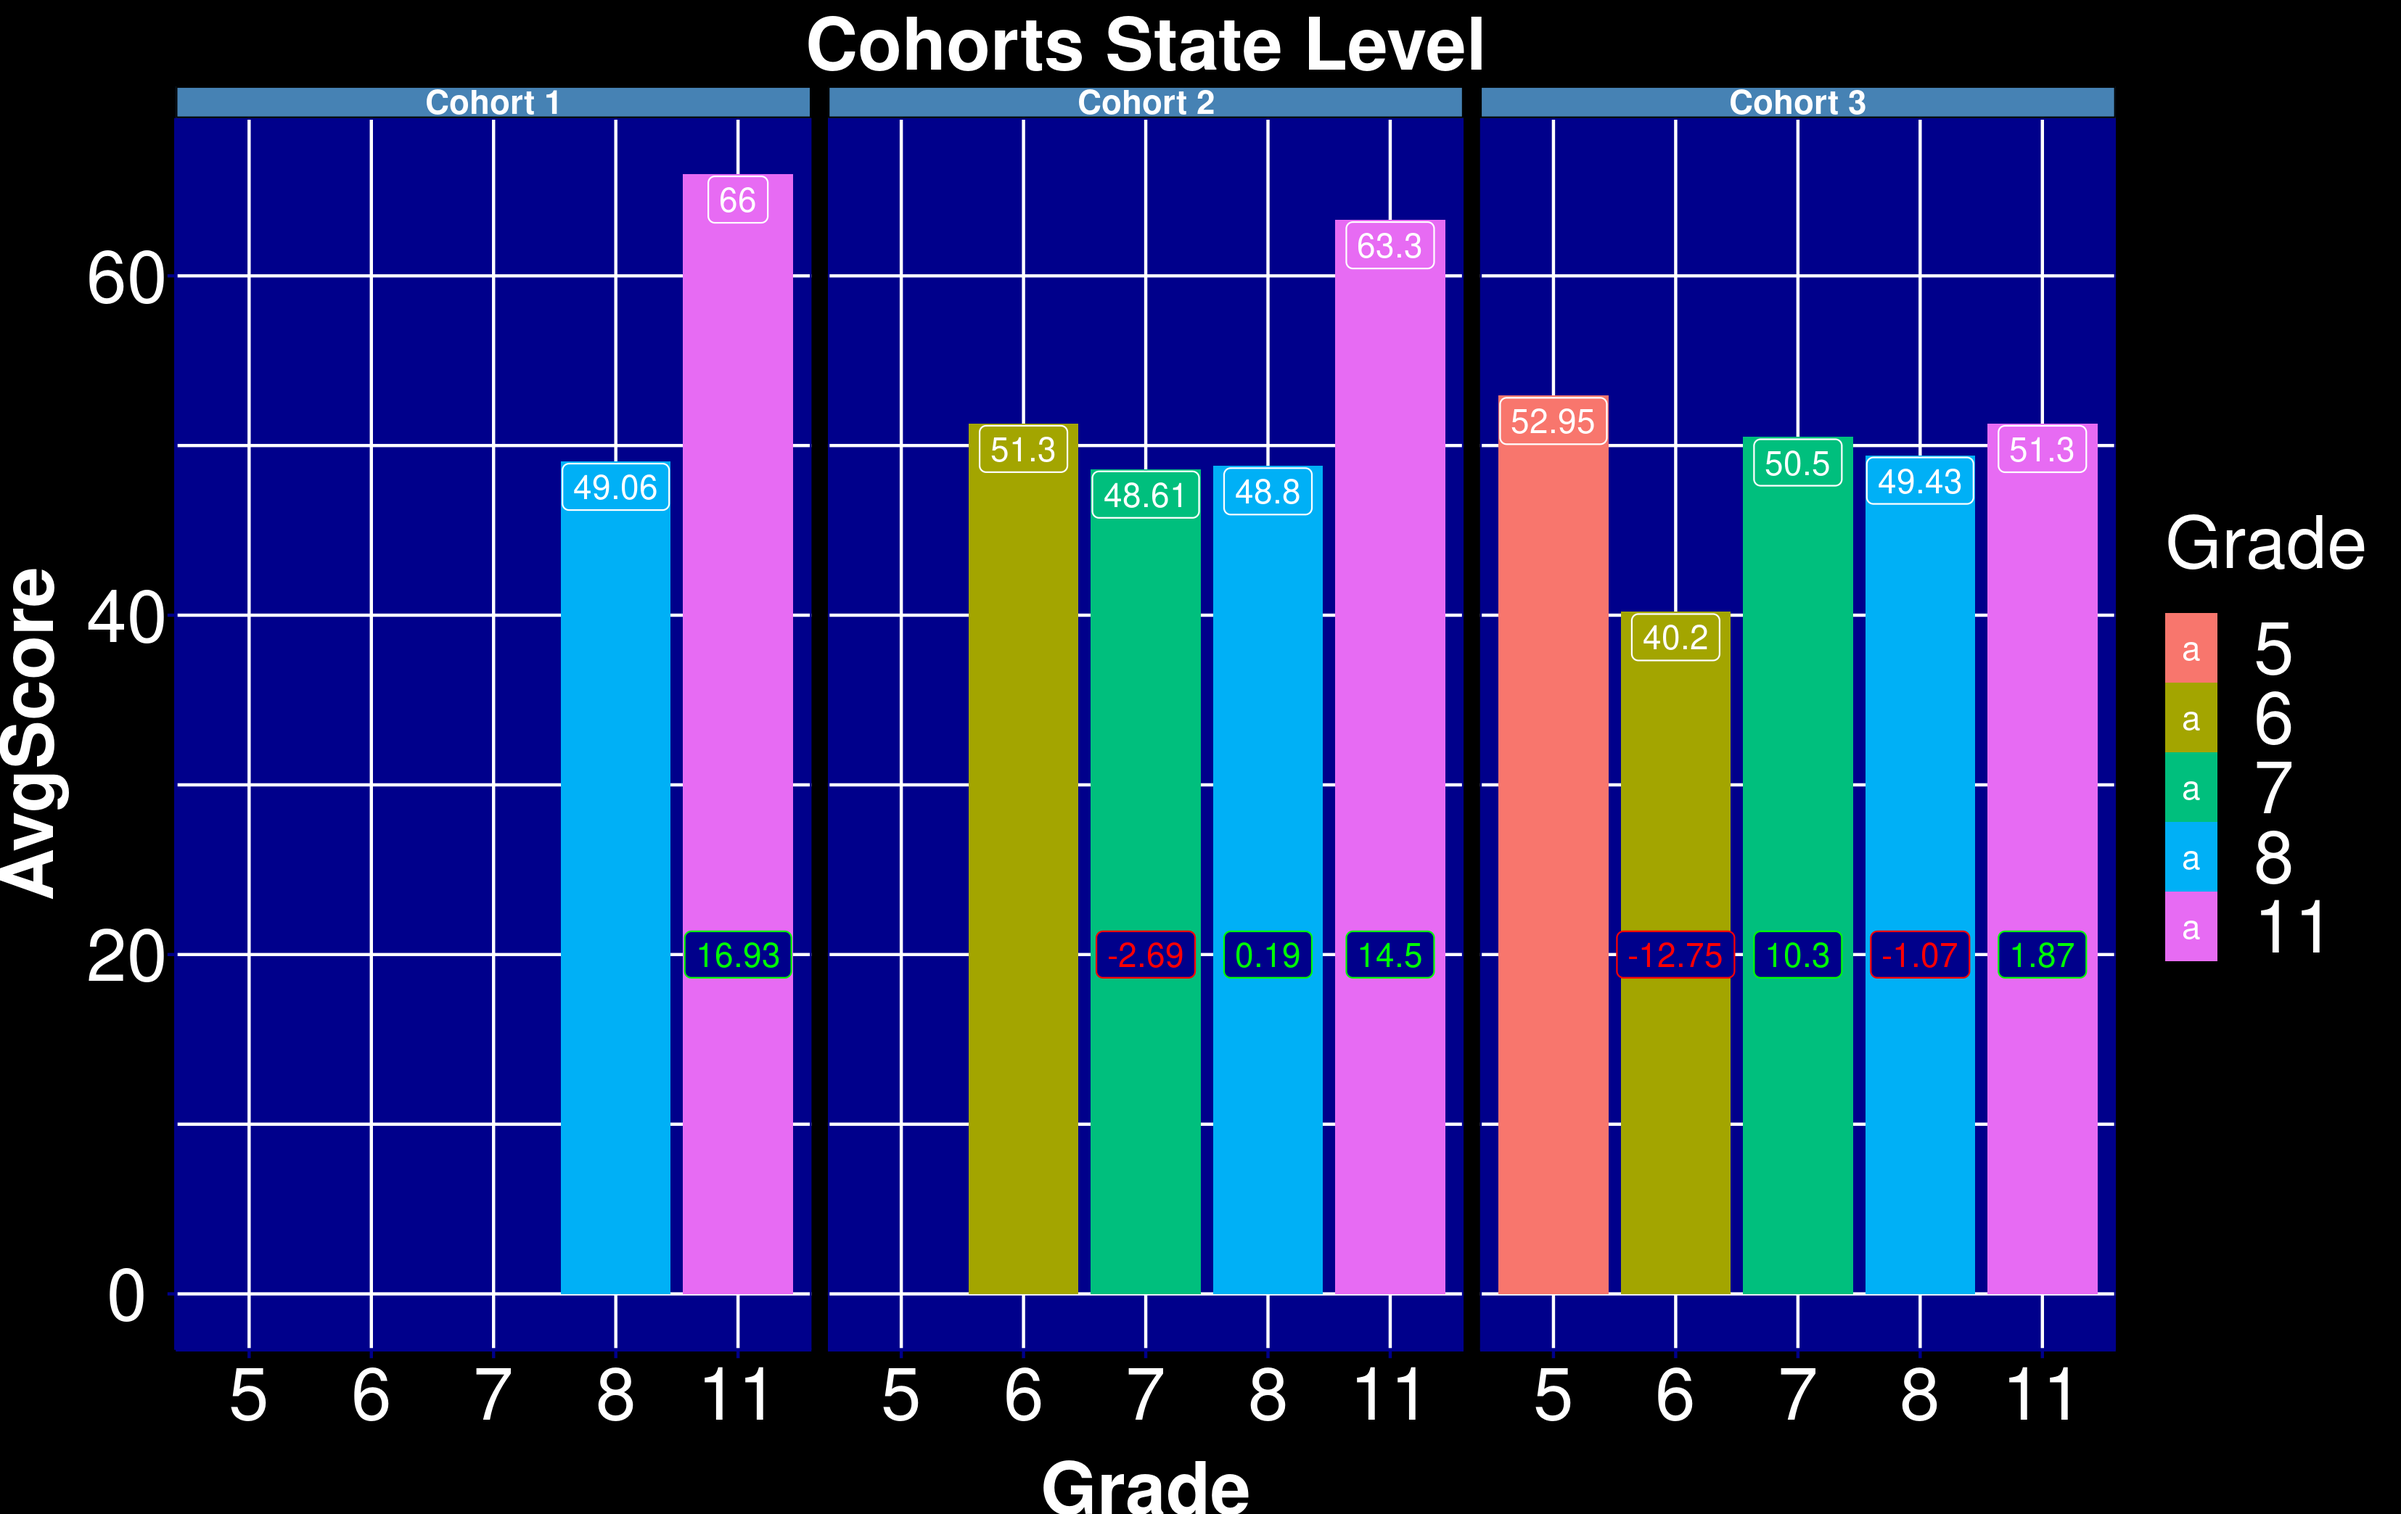
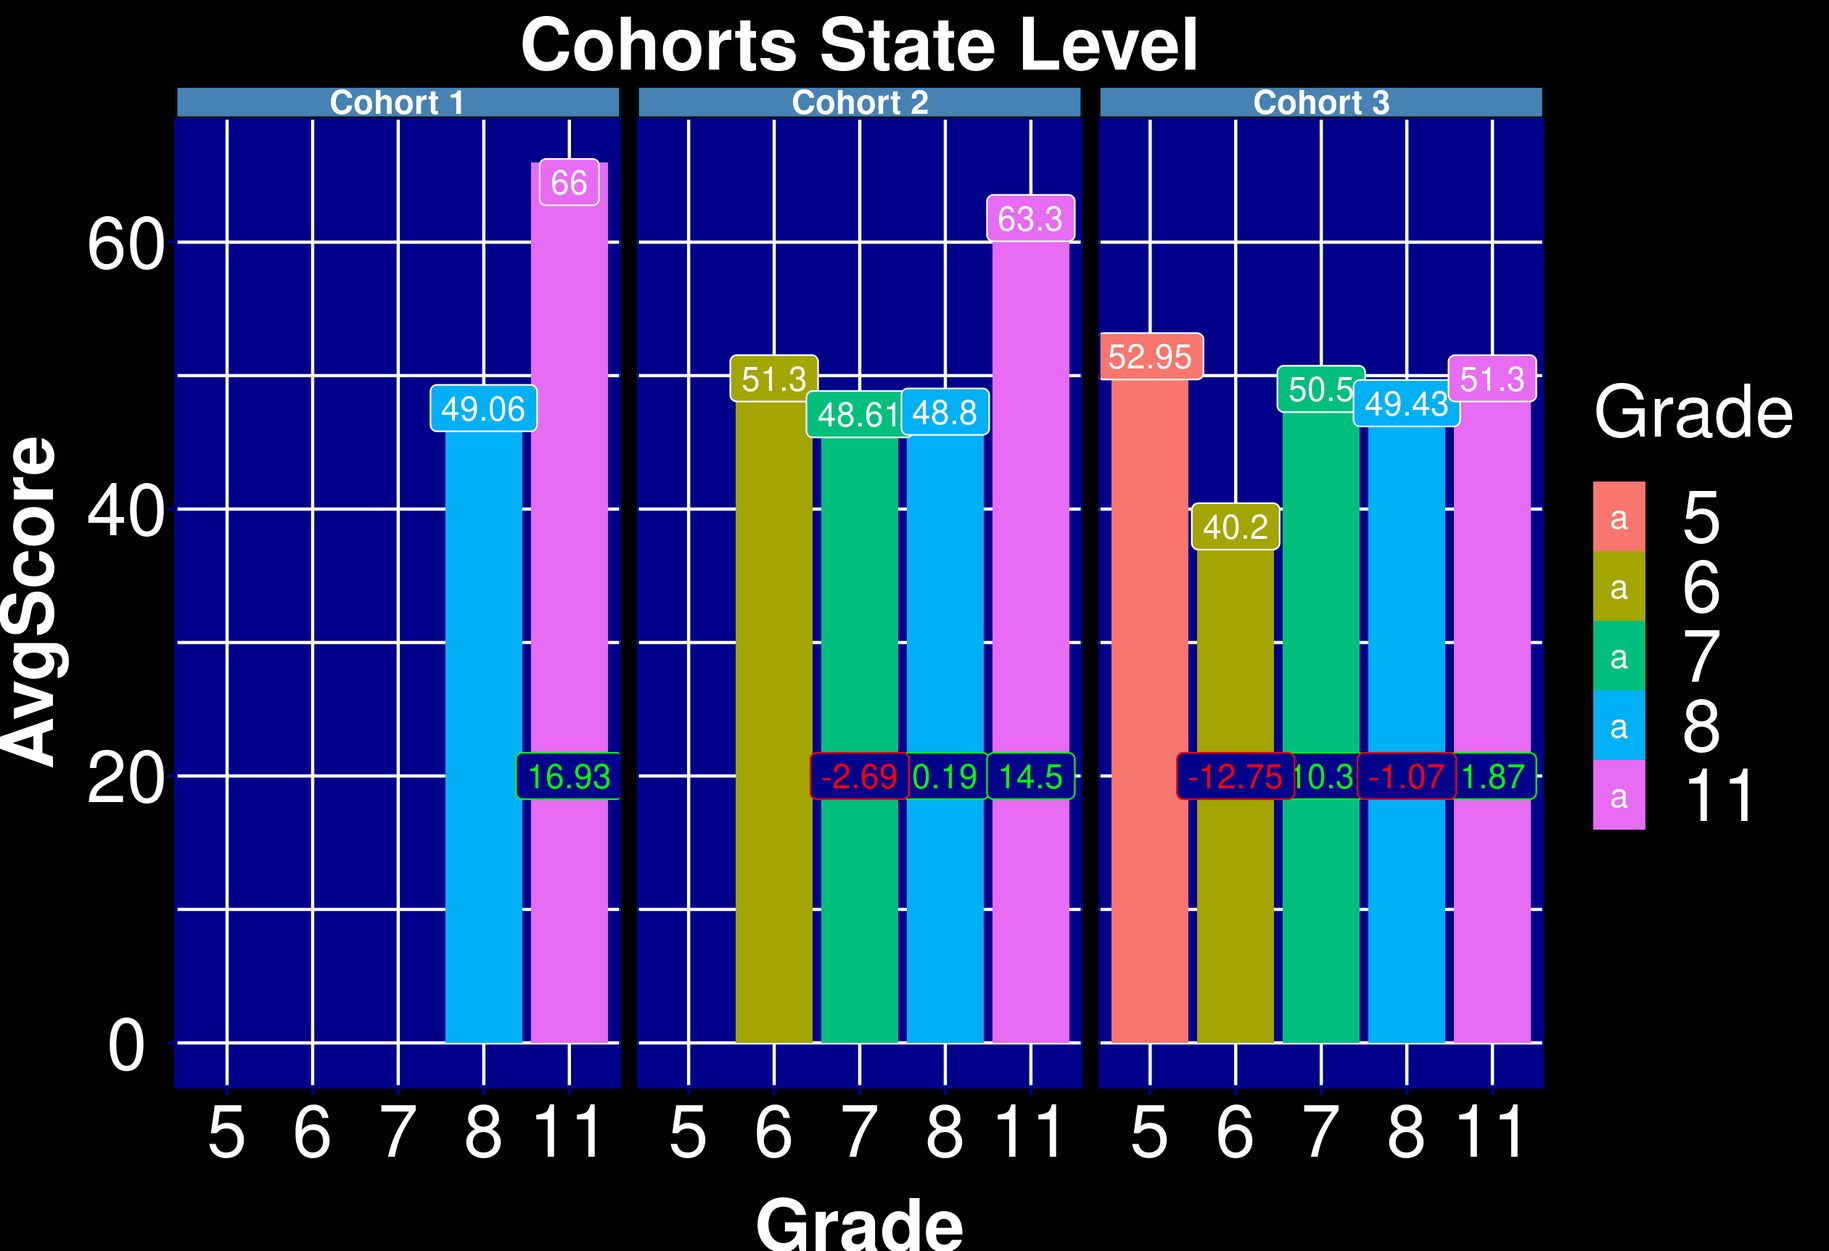
Updated Cohorts

diff --git a/README.md b/README.md
@@ -250,9 +250,9 @@ When comparing Keystone average scores between districts, there seems to be no c
 
 ##### Cohorts by county
 
-Columbia County | Montour County
-:--------------:|:---------------:
-![obj6b_columbia](/Resources/Obj6b_columbia.png) | ![obj6b_montour](/Resources/Obj6b_montour.png)
+State | Columbia County | Montour County
+:----:|:---------------:|:--------------:
+![obj6b_state](/Resources/Obj6b_state.png) | ![obj6b_columbia](/Resources/Obj6b_columbia.png) | ![obj6b_montour](/Resources/Obj6b_montour.png)
 
 # Authors
 - [Ronny Toribio](https://github.com/ronny-phoenix) - Project lead, Data Wrangling, Statistical Analysis
